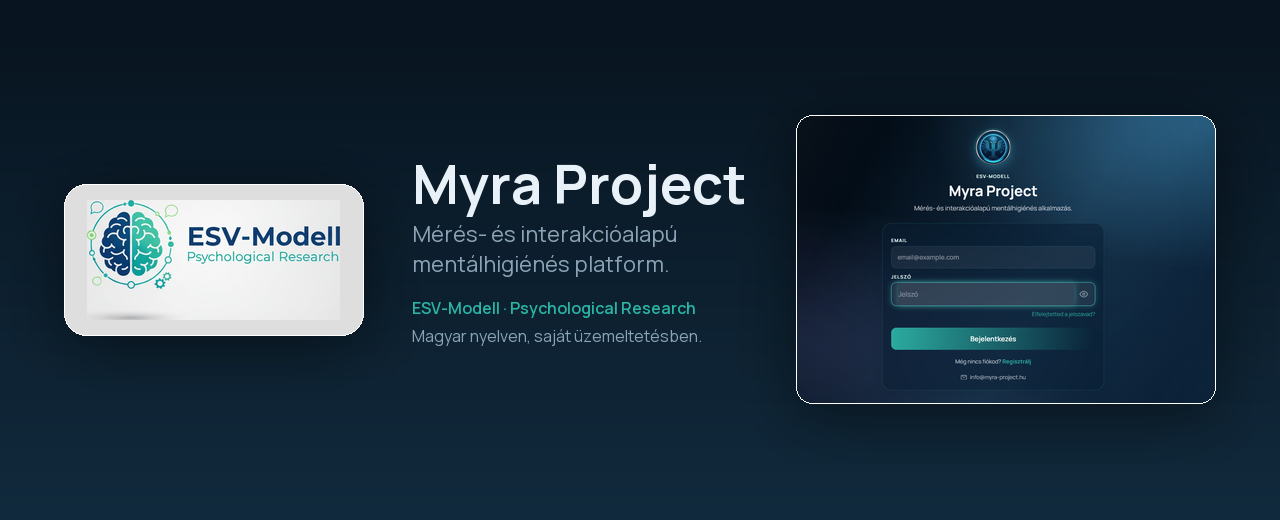
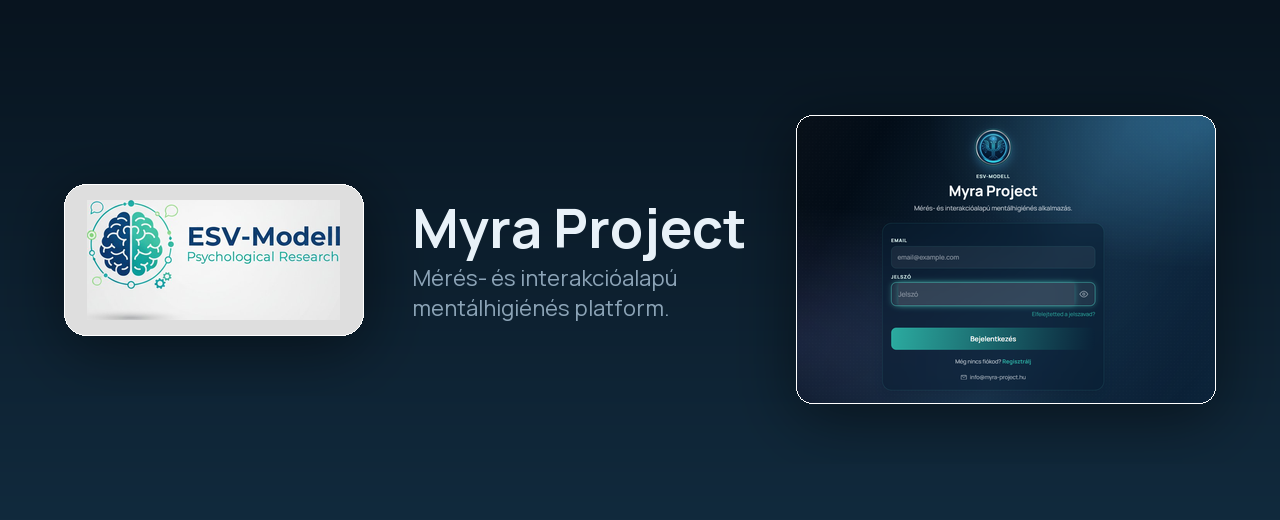
2026-10-22

Changed region(s): [[0.3125, 0.3077, 0.5938, 0.5538], [0.3125, 0.5846, 0.5625, 0.6769]]

diff --git a/README.md b/README.md
@@ -1,11 +1,11 @@
 # Myra Project
 
-![Myra Project](assets/readme/hero.png)
+**Web:** https://myra-project.hu
 
 Önismereti platform: ESV-modell alapú állapotfelmérés, méréshez kötött chat, naplózott
 krízisjelzés.
 
-## Képernyőképek
+![Myra Project](assets/readme/hero.png)
 
 ![Irányítópult](assets/readme/screens.png)
 
